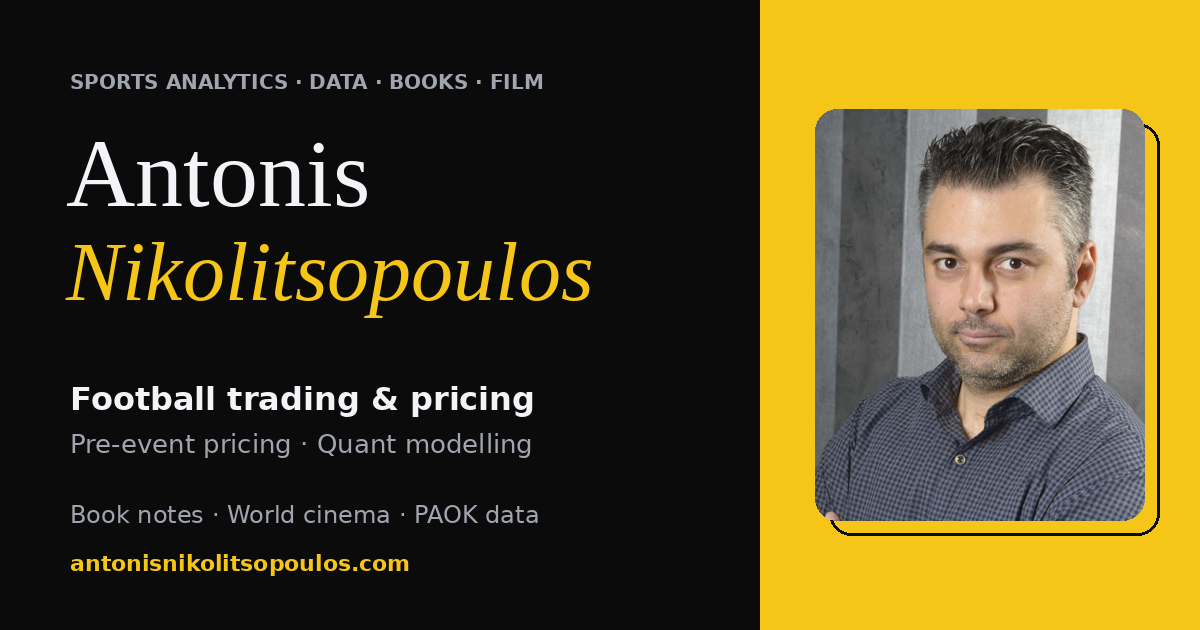
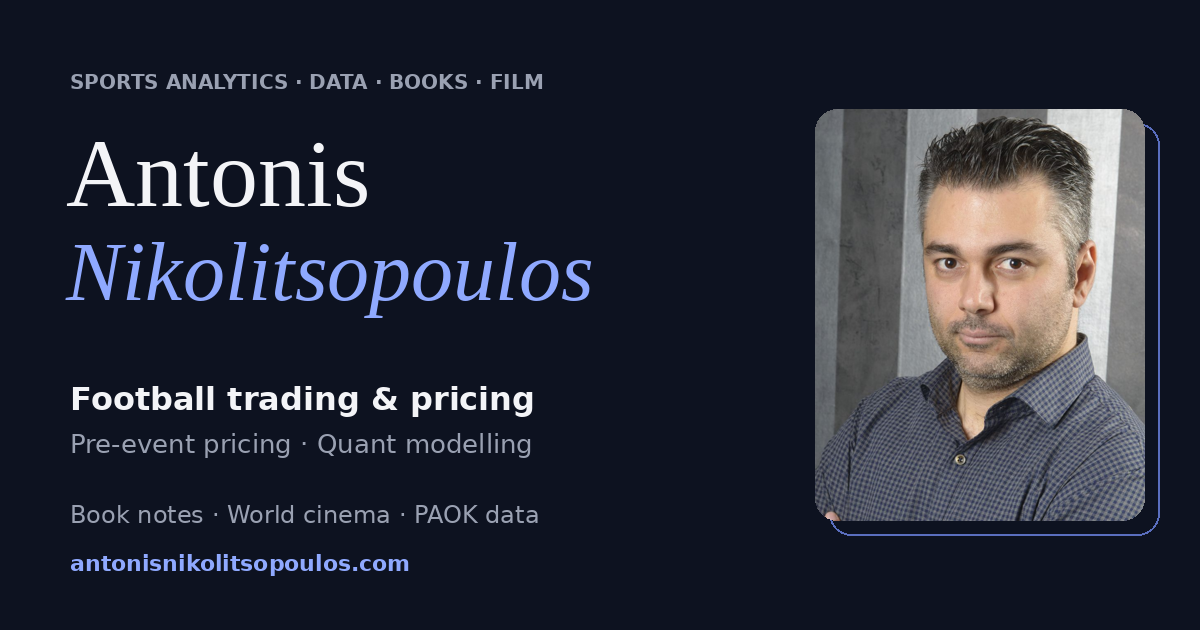
Share image back to navy/blue; no yellow
Claude-Session: https://claude.ai/code/session_01KcB8j1TnhArNwutZyoZPQU

Changed region(s): [[0.6167, 0.0, 1.0, 1.0], [0.0617, 0.3921, 0.4933, 0.5127], [0.0617, 0.8746, 0.3392, 0.9048]]

diff --git a/index.html b/index.html
@@ -7,7 +7,7 @@
 <meta property="og:description" content="Football trading and sports analytics. Writing on books, decision science and world cinema, and PAOK data projects.">
 <meta property="og:url" content="https://antonisnikolitsopoulos.com/">
 <meta property="og:type" content="website">
-<meta property="og:image" content="https://antonisnikolitsopoulos.com/og.png?v=2">
+<meta property="og:image" content="https://antonisnikolitsopoulos.com/og.png?v=3">
 <meta property="og:image:width" content="1200">
 <meta property="og:image:height" content="630">
 <meta name="twitter:card" content="summary_large_image">
